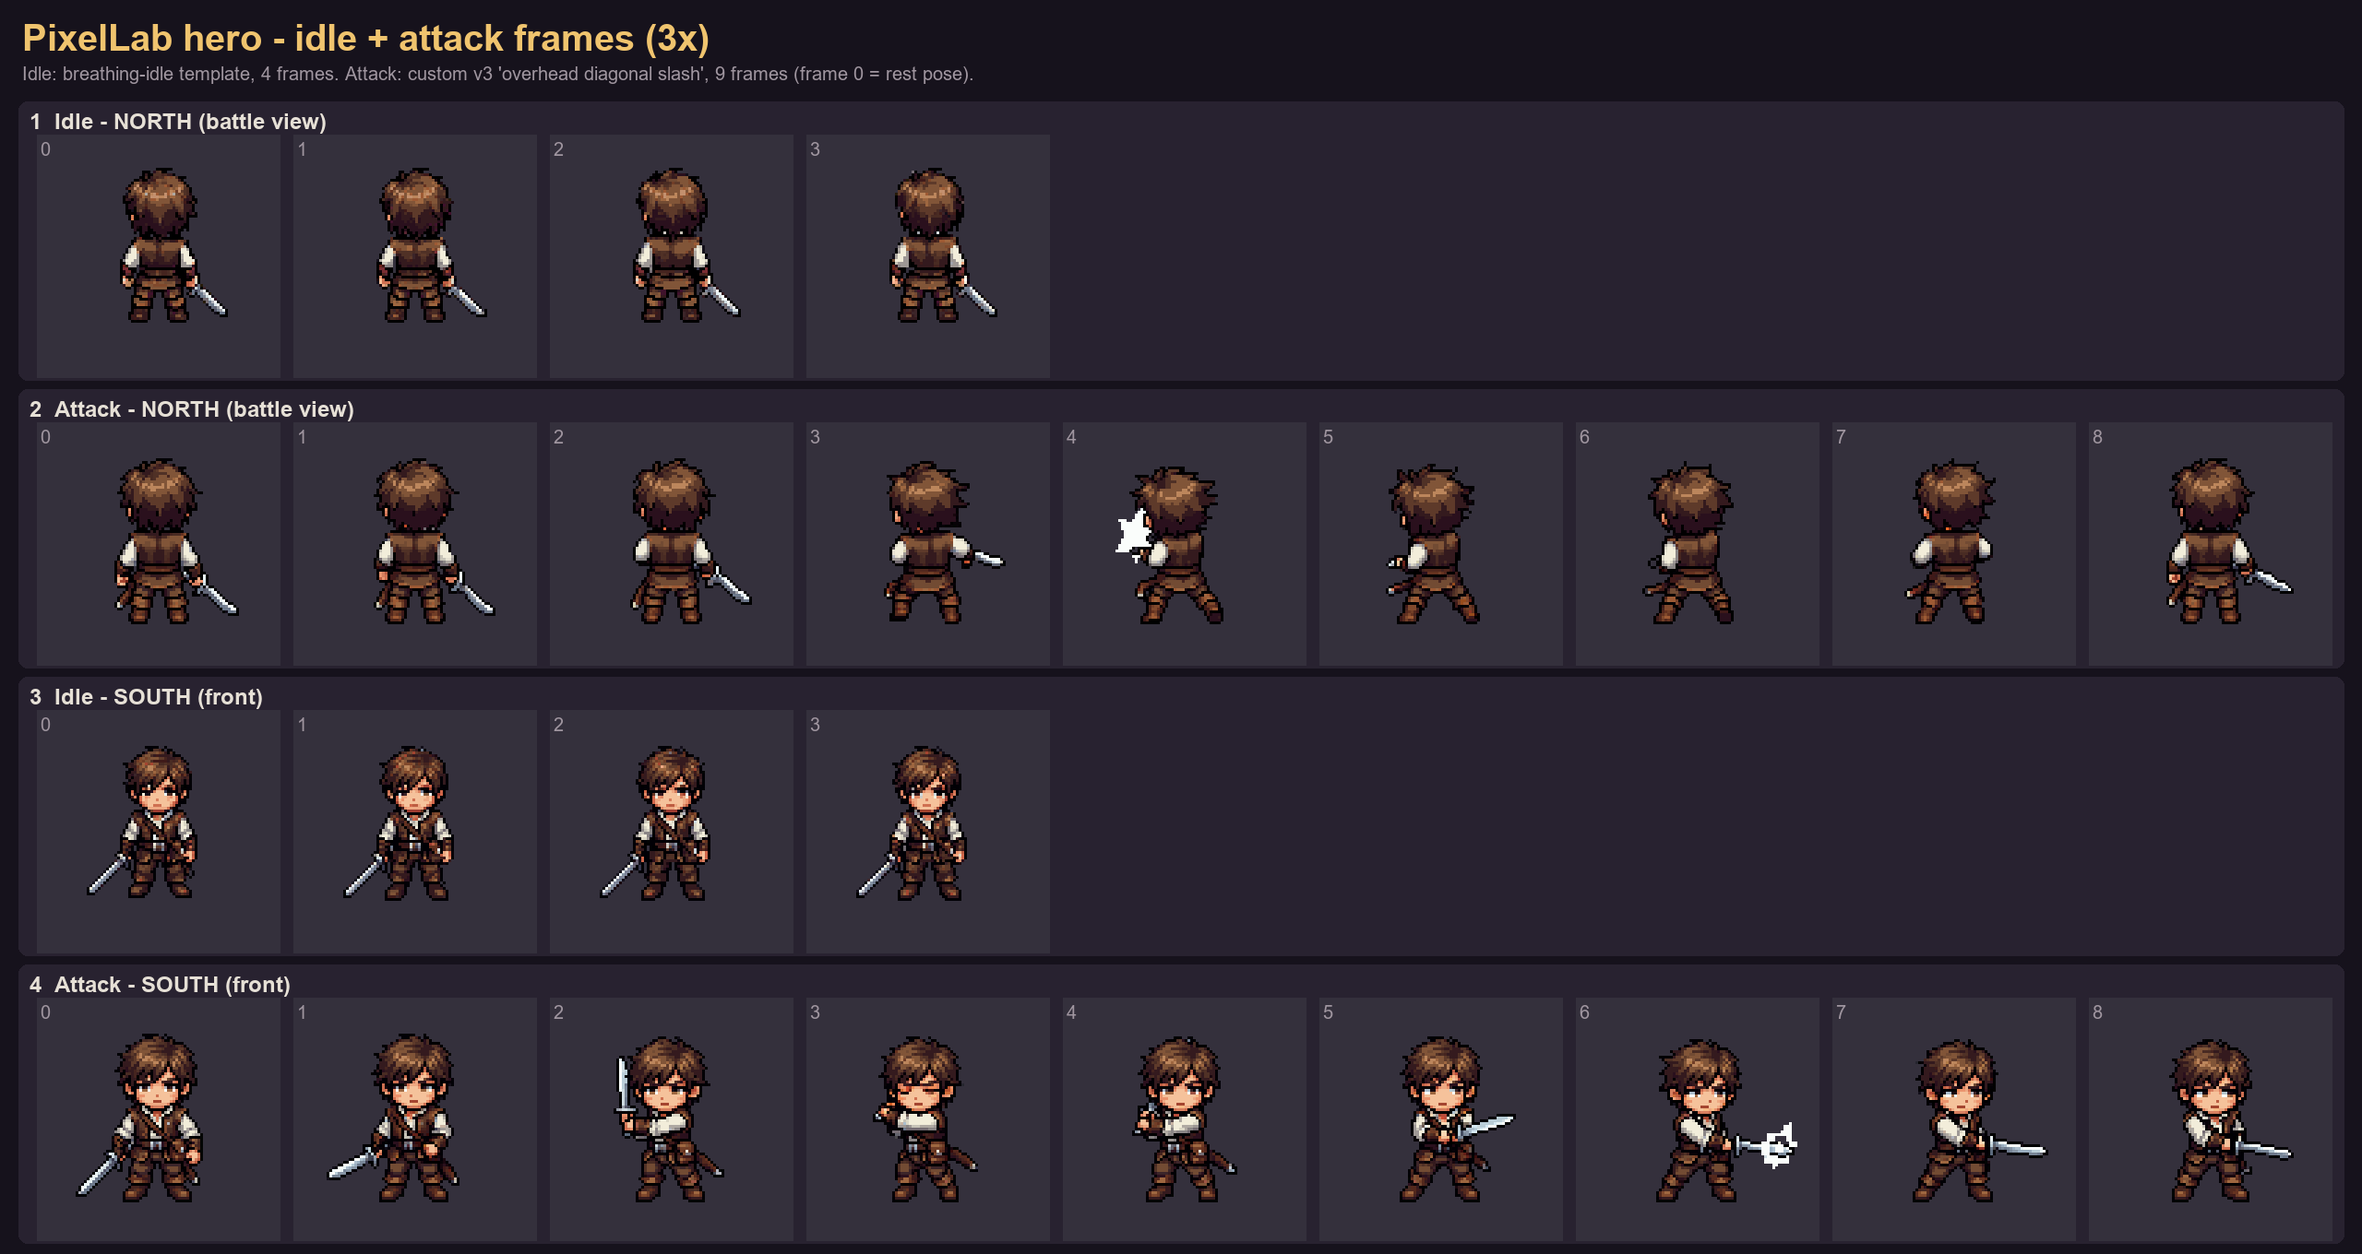
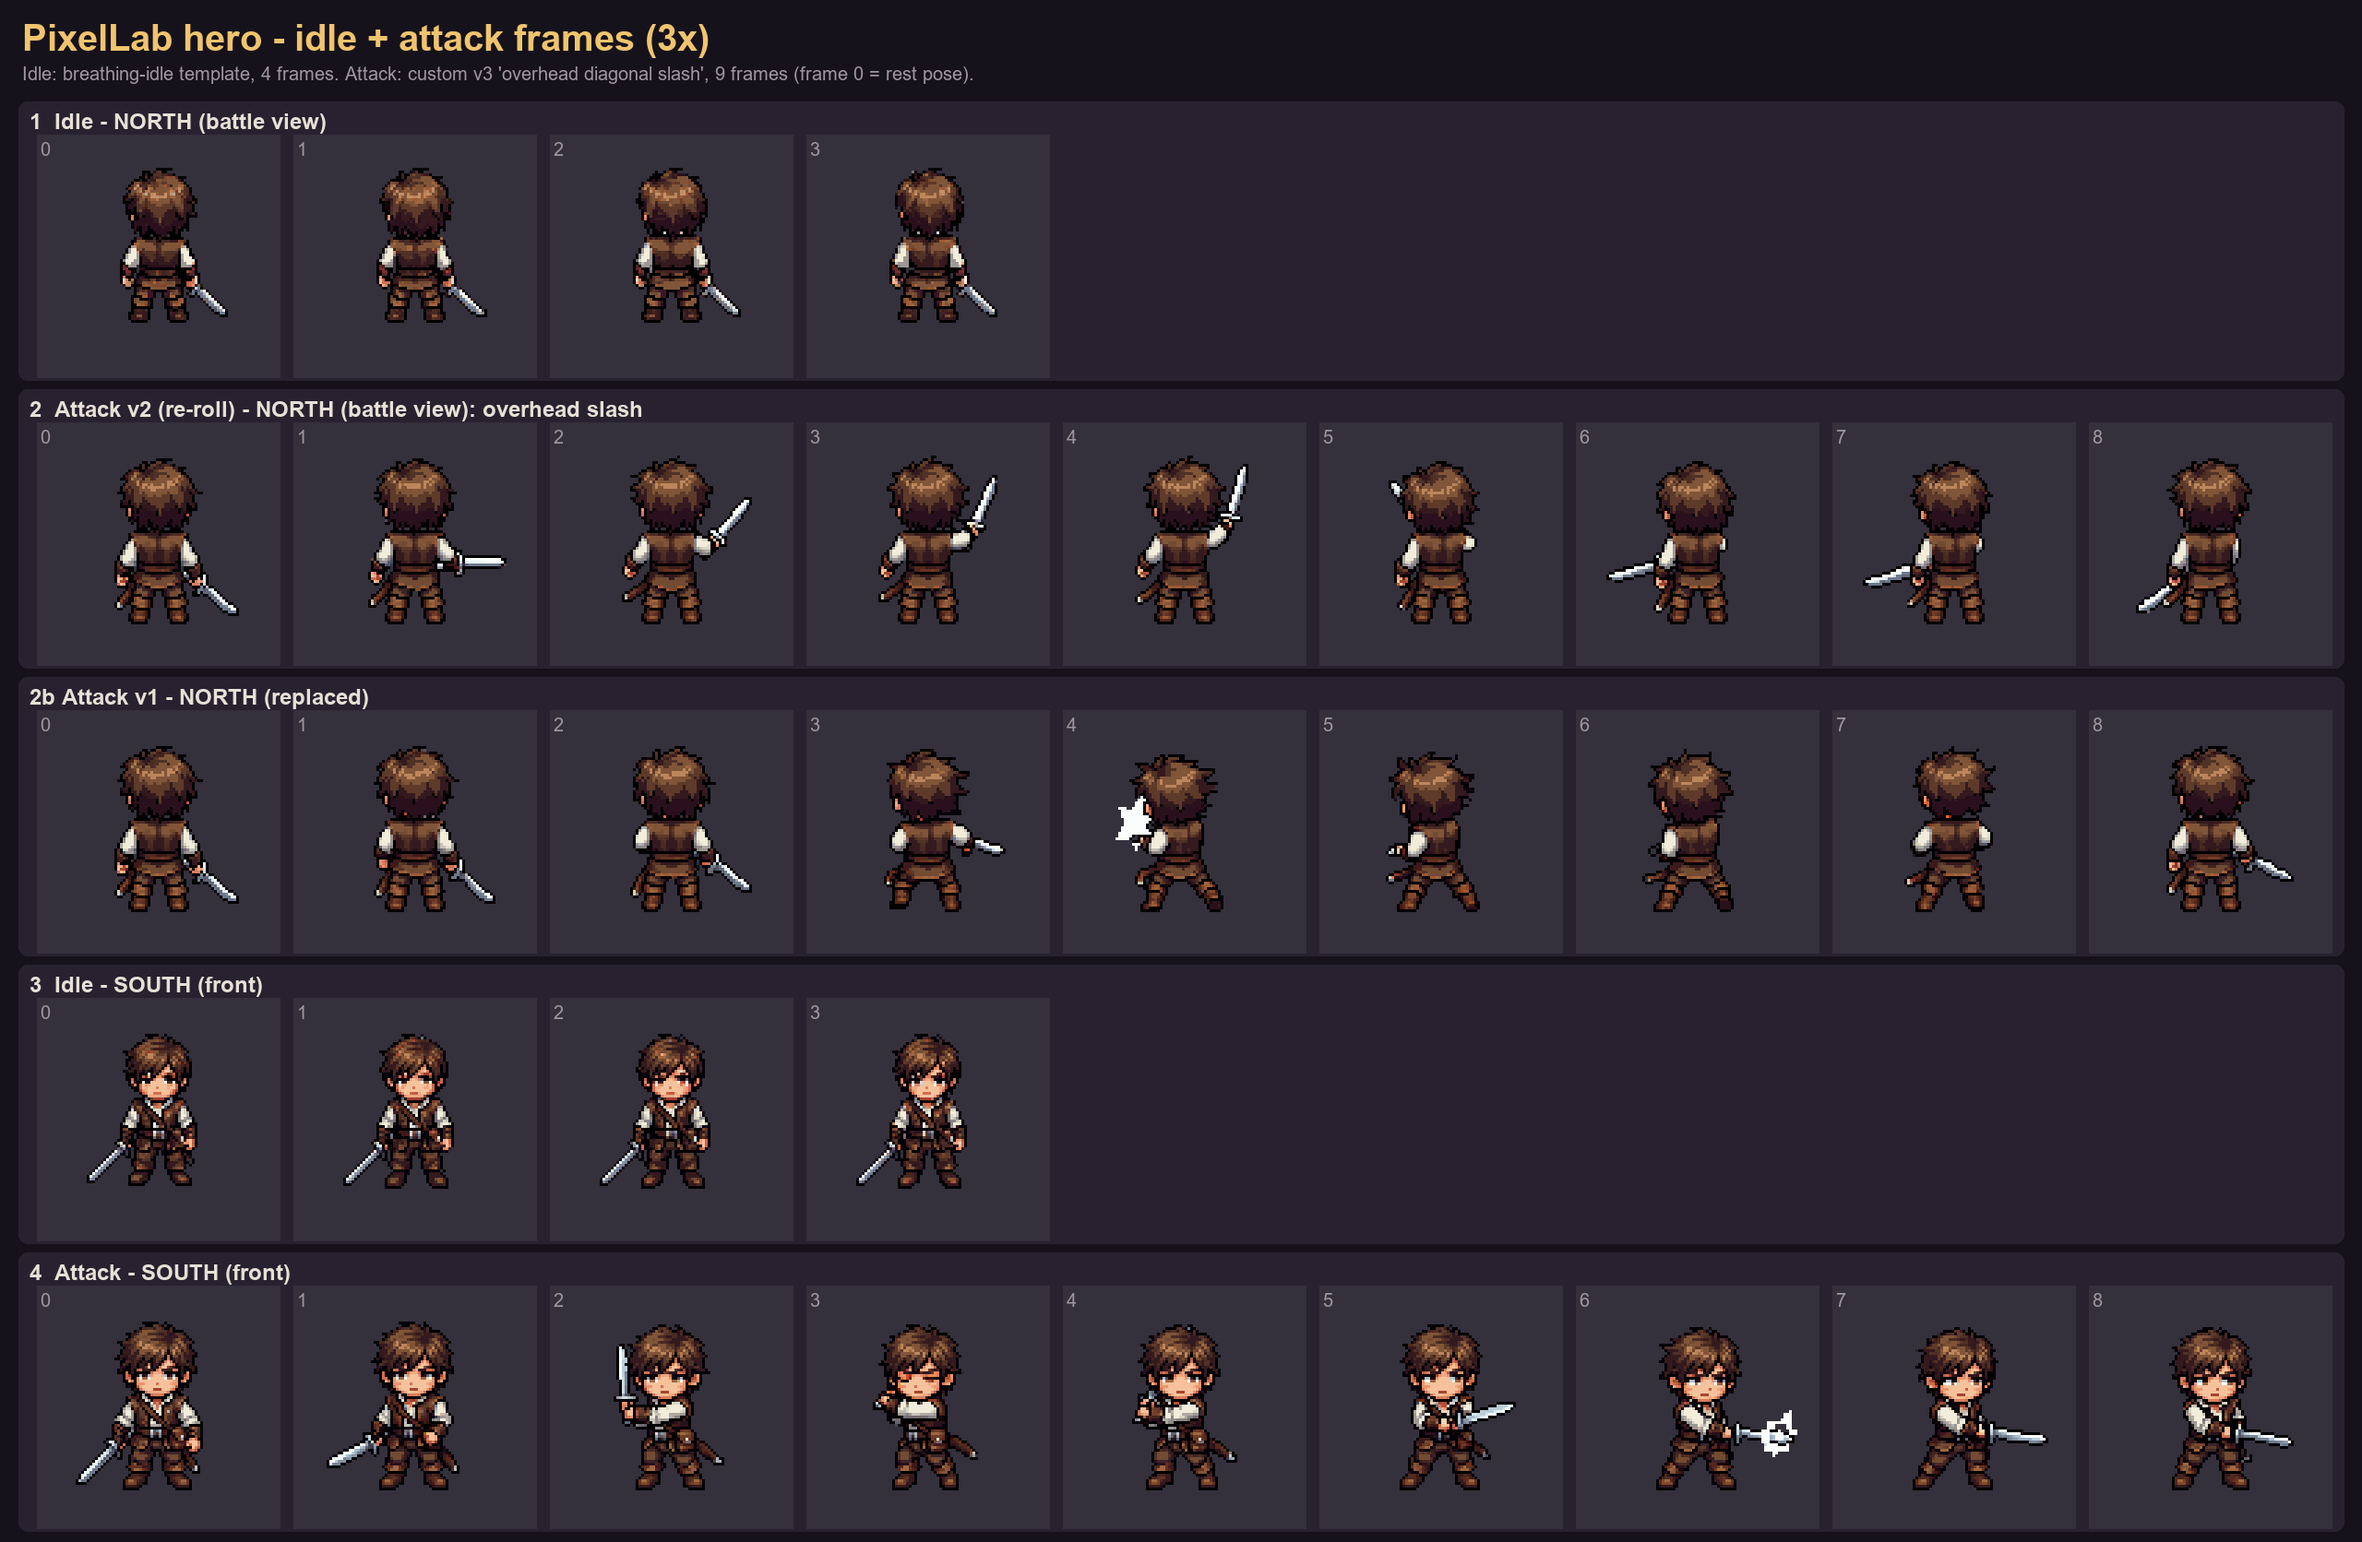
PixelLab hero: re-rolled north attack (overhead slash, sword stays visible), battle loop uses it
1 trial generation.

Changed region(s): [[0.0, 0.0, 1.0, 0.9882]]

diff --git a/claude/art_test/pixellab/make_anims.py b/claude/art_test/pixellab/make_anims.py
@@ -51,12 +51,12 @@ def gif(frames, path, z, ms):
 
 
 def main():
-    clips = {k: clip(k) for k in ["idle_north", "attack_north", "idle_south", "attack_south"]}
-    fi, fa = feet_row(clips["idle_north"]), feet_row(clips["attack_north"])
-    S = MS.Sheet(40 + 9 * 280, 1360, "PixelLab hero - idle + attack frames (3x)",
+    clips = {k: clip(k) for k in ["idle_north", "attack_north", "attack2_north", "idle_south", "attack_south"]}
+    fi, fa = feet_row(clips["idle_north"]), feet_row(clips["attack2_north"])
+    S = MS.Sheet(40 + 9 * 280, 1672, "PixelLab hero - idle + attack frames (3x)",
                  "Idle: breathing-idle template, 4 frames. Attack: custom v3 'overhead diagonal slash', 9 frames (frame 0 = rest pose).")
     y = 110
-    for k, lab in [("idle_north", "1  Idle - NORTH (battle view)"), ("attack_north", "2  Attack - NORTH (battle view)"),
+    for k, lab in [("idle_north", "1  Idle - NORTH (battle view)"), ("attack2_north", "2  Attack v2 (re-roll) - NORTH (battle view): overhead slash"), ("attack_north", "2b Attack v1 - NORTH (replaced)"),
                    ("idle_south", "3  Idle - SOUTH (front)"), ("attack_south", "4  Attack - SOUTH (front)")]:
         S.panel(20, y, 9 * 280, 302, lab)
         for i, f in enumerate(clips[k]):
@@ -64,10 +64,10 @@ def main():
             S.d.text((44 + i * 278, y + 40), str(i), font=MS.F_S, fill=MS.DIM)
         y += 312
     S.im.convert("RGB").save(os.path.join(HERE, "03_PL_anim_frames.png"))
-    for k, ms in [("idle_north", 220), ("idle_south", 220), ("attack_north", 90), ("attack_south", 90)]:
+    for k, ms in [("idle_north", 220), ("idle_south", 220), ("attack_north", 90), ("attack2_north", 90), ("attack_south", 90)]:
         gif(clips[k], os.path.join(HERE, f"04_PL_{k}_4x.gif"), 4, ms)
     # phone battle loop: idle x2, attack, idle
-    seq = [(f, fi) for f in clips["idle_north"] * 2] + [(f, fa) for f in clips["attack_north"]] + [(f, fi) for f in clips["idle_north"]]
+    seq = [(f, fi) for f in clips["idle_north"] * 2] + [(f, fa) for f in clips["attack2_north"]] + [(f, fi) for f in clips["idle_north"]]
     durs = [220] * 8 + [90] * 9 + [220] * 4
     frames = [scene(f, ft).convert("RGB").convert("P", palette=Image.ADAPTIVE) for f, ft in seq]
     frames[0].save(os.path.join(HERE, "05_PL_battle_loop_430x932.gif"), save_all=True,
